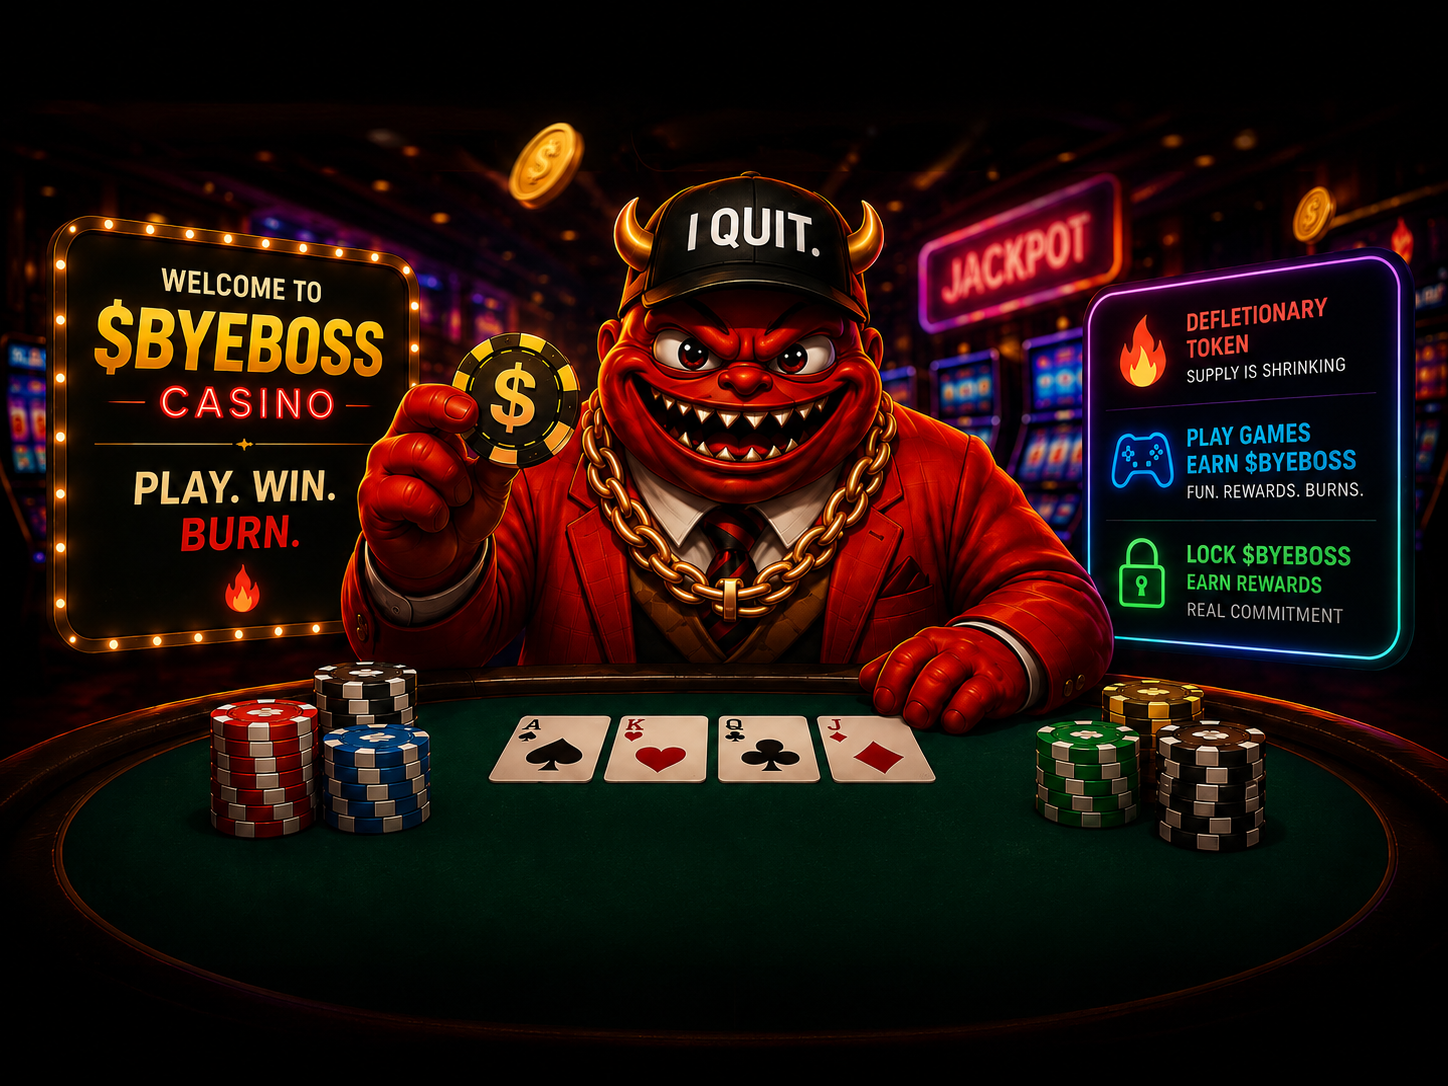
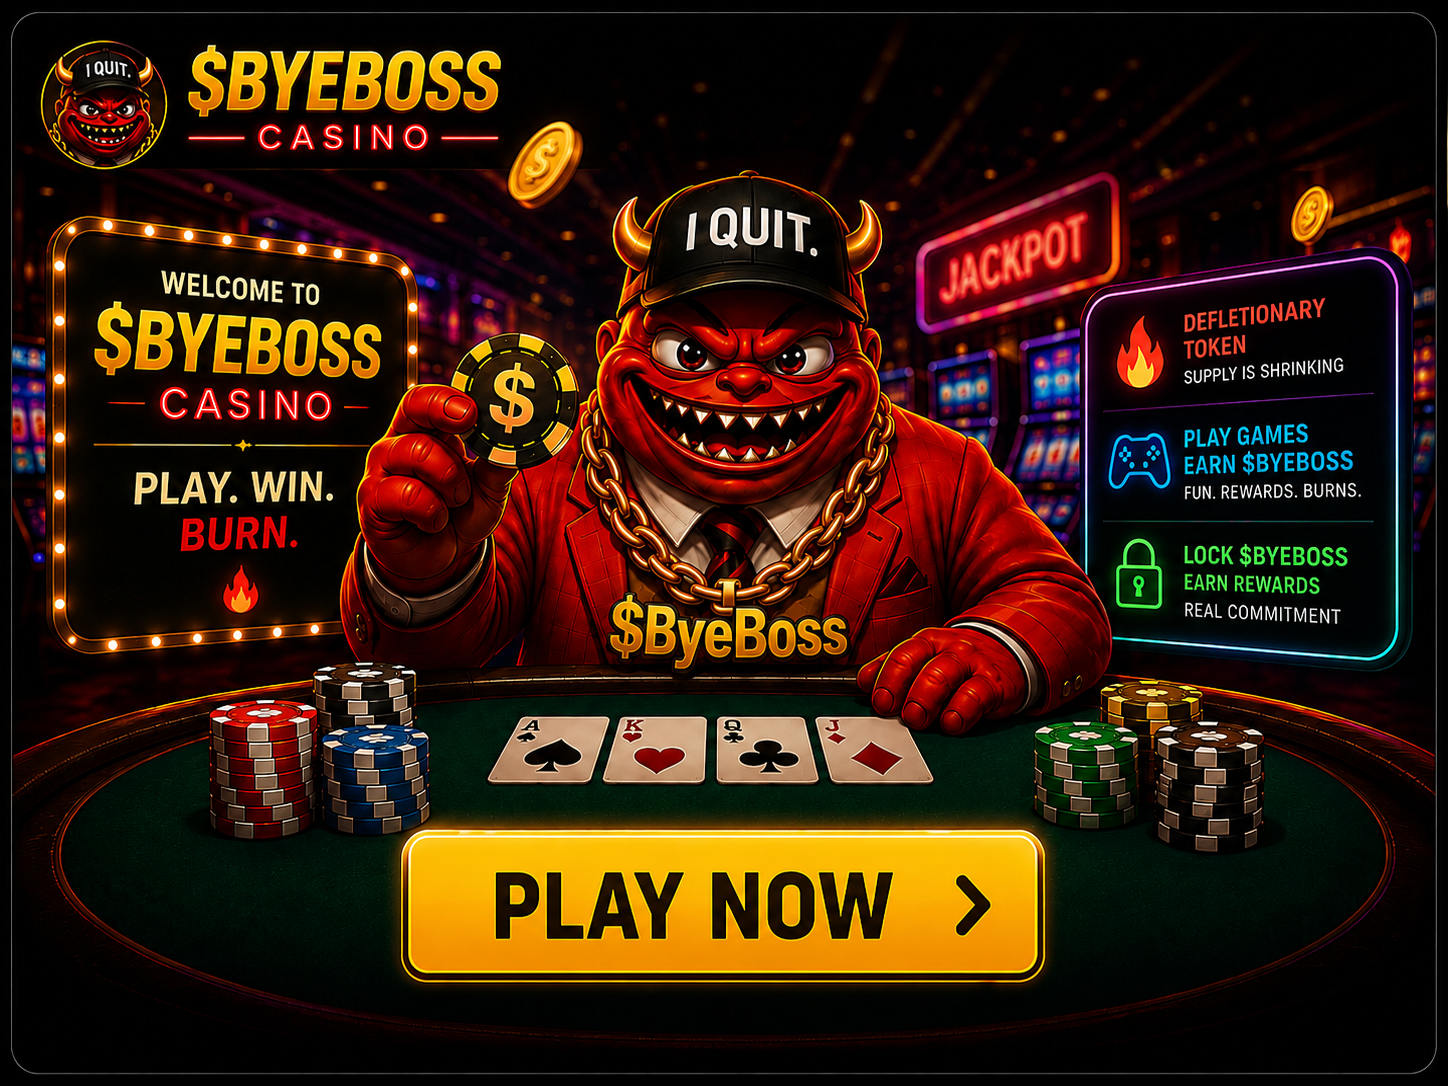
play: new casino background (with PLAY NOW button) + transparent spin hotspot
Swap to the casino art that has a built-in PLAY NOW button; the SPIN trigger is
a transparent hotspot over it (hover glow shows the zone). Bet/vault controls
moved to the top so they don't collide with the button; reels sit over the cards.

Claude-Session: https://claude.ai/code/session_01V4XoYVVBnXwRbbP6QVnArZ

diff --git a/play.html b/play.html
@@ -280,17 +280,17 @@
       /* casino panel = the bright $BYEBOSS Casino image (no darkening) with controls laid over it */
       #casinoP .vault-box{ position:relative; width:min(94vw,460px); aspect-ratio:4/3; background:#08030f url('./assets/game/slots/casino-bg.png') center/cover no-repeat; border:1.5px solid #ff5ad0; border-radius:16px; box-shadow:0 0 30px rgba(255,90,208,.5); overflow:hidden }
       .casino-x{ position:absolute; top:6px; right:12px; z-index:6; color:#fff; font-size:20px; cursor:pointer; text-shadow:0 1px 4px #000 }
-      .casino-msg{ position:absolute; left:4%; right:4%; top:37%; z-index:3; text-align:center; font-weight:800; font-size:13px; color:#fff; text-shadow:0 2px 5px #000,0 0 8px #000 }
-      .casino-reels{ position:absolute; left:0; right:0; top:44%; z-index:3; display:flex; gap:3%; justify-content:center }
-      .casino-reels .slot-reel{ width:14%; aspect-ratio:1 }
-      .casino-vault{ position:absolute; left:50%; top:63%; transform:translateX(-50%); z-index:3; font-size:11px; font-weight:700; color:#fff; text-shadow:0 1px 3px #000; background:rgba(8,3,16,.55); padding:2px 9px; border-radius:8px; white-space:nowrap }
-      /* the SPIN trigger is transparent and sits over the image's PLAY button (hover glow shows its zone) */
-      #spinBtn{ position:absolute; left:27%; top:73%; width:46%; height:12.5%; z-index:5; background:linear-gradient(#ffd755,#f0a000); color:#3a1c00; font-weight:900; font-size:clamp(15px,4.4vw,20px); letter-spacing:.5px; border:2px solid #fff3c0; border-radius:30px; cursor:pointer; padding:0; box-shadow:0 4px 16px rgba(0,0,0,.5),0 0 18px rgba(255,200,60,.55) }
-      #spinBtn:hover{ filter:brightness(1.08) }
+      .casino-vault{ position:absolute; left:50%; top:3%; transform:translateX(-50%); z-index:5; font-size:11px; font-weight:700; color:#fff; text-shadow:0 1px 3px #000; background:rgba(8,3,16,.62); padding:2px 10px; border-radius:8px; white-space:nowrap }
+      .casino-bet{ position:absolute; left:50%; top:8.5%; transform:translateX(-50%); z-index:5; display:flex; gap:4px; align-items:center; background:rgba(8,3,16,.72); padding:3px 6px; border-radius:10px; border:1px solid rgba(255,90,208,.5) }
+      .casino-bet input{ width:58px; text-align:center; font-size:13px; font-weight:700; padding:3px; border-radius:6px; border:1px solid #ff5ad0; background:#160d22; color:#fff }
+      .casino-msg{ position:absolute; left:4%; right:4%; top:42%; z-index:3; text-align:center; font-weight:800; font-size:13px; color:#fff; text-shadow:0 2px 5px #000,0 0 8px #000 }
+      .casino-reels{ position:absolute; left:0; right:0; top:54%; z-index:3; display:flex; gap:3%; justify-content:center }
+      .casino-reels .slot-reel{ width:13.5%; aspect-ratio:1 }
+      /* the SPIN trigger is transparent and sits over the image's PLAY NOW button (hover glow shows its zone) */
+      #spinBtn{ position:absolute; left:25%; top:80%; width:50%; height:11%; z-index:5; background:transparent; border:0; border-radius:30px; cursor:pointer; padding:0; color:transparent; font-size:0 }
+      #spinBtn:hover{ box-shadow:0 0 0 2px rgba(255,255,255,.5) inset,0 0 18px rgba(255,210,80,.6) }
       #spinBtn:active{ transform:translateY(1px) }
-      #spinBtn:disabled{ cursor:default; opacity:.6 }
-      .casino-bet{ position:absolute; left:50%; bottom:3.5%; transform:translateX(-50%); z-index:5; display:flex; gap:4px; align-items:center; background:rgba(8,3,16,.8); padding:4px 7px; border-radius:10px; border:1px solid rgba(255,90,208,.55) }
-      .casino-bet input{ width:62px; text-align:center; font-size:14px; font-weight:700; padding:4px; border-radius:6px; border:1px solid #ff5ad0; background:#160d22; color:#fff }
+      #spinBtn:disabled{ cursor:default }
     </style>
     <div id="casinoP" class="vault hidden">
       <div class="vault-box">
@@ -300,7 +300,7 @@
           <span class="slot-reel"><img id="sri0" alt=""></span><span class="slot-reel"><img id="sri1" alt=""></span><span class="slot-reel"><img id="sri2" alt=""></span>
         </div>
         <div class="casino-vault">Vault: <b id="slotVault">0</b> $BYEBOSS</div>
-        <button id="spinBtn" title="Spin the slots">🎰 SPIN</button>
+        <button id="spinBtn" title="Spin — PLAY NOW"></button>
         <div class="casino-bet">
           <button id="betMinus" class="slot-bbtn">−</button>
           <input id="slotBet" type="number" min="1" step="1" value="10" />